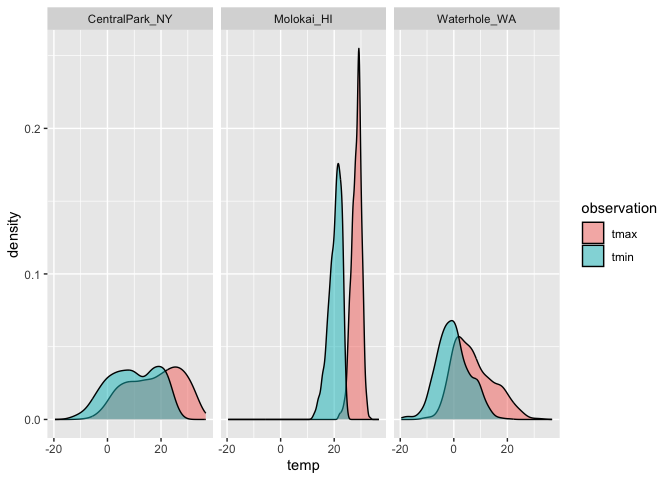
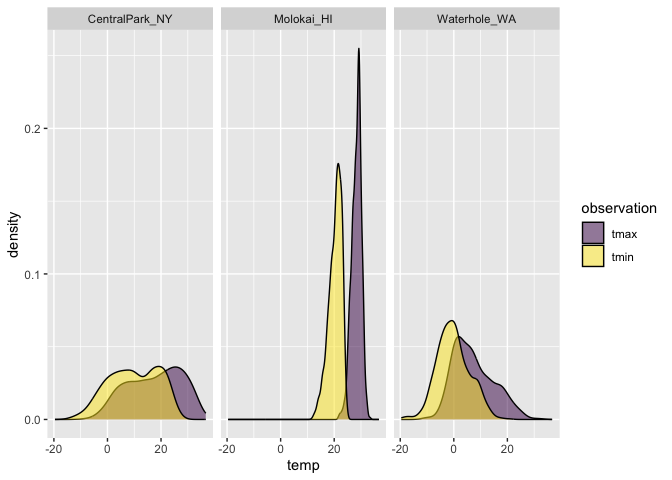
data manipulation & advance ggplot

diff --git a/visualization_part_2.md b/visualization_part_2.md
@@ -371,6 +371,7 @@ what if i wanted densities for tmin and tmax simultaneously?
 
 ``` r
 weather_df |>
+  select(name, tmax, tmin) |> 
   pivot_longer(
     tmax:tmin,
     names_to = "observation", 
@@ -378,9 +379,90 @@ weather_df |>
   ) %>% 
   ggplot(aes(x = temp, fill = observation)) +
   geom_density(alpha = .5) +
-  facet_grid(. ~ name)
+  facet_grid(~ name) + 
+  viridis::scale_fill_viridis(discrete = TRUE)
 ```
 
     ## Warning: Removed 34 rows containing non-finite values (`stat_density()`).
 
 ![](visualization_part_2_files/figure-gfm/unnamed-chunk-16-1.png)<!-- -->
+
+## revisit the pulse
+
+``` r
+pulse_data = 
+  haven::read_sas("./data/public_pulse_data.sas7bdat") %>% 
+  janitor::clean_names() %>% 
+  pivot_longer(
+    bdi_score_bl:bdi_score_12m,
+    names_to = "visit",
+    names_prefix = "bdi_score_",
+    values_to = "bdi") %>% 
+  select(id, visit, everything()) %>% 
+  mutate(
+    visit = recode(visit, "bl" = "00m"), 
+    visit = factor(visit, levels = str_c(c("00", "01", "06", "12"), "m"))) %>% 
+  arrange(id, visit)
+
+ggplot(pulse_data, aes(x = visit, y = bdi)) + 
+  geom_point()
+```
+
+    ## Warning: Removed 879 rows containing missing values (`geom_point()`).
+
+![](visualization_part_2_files/figure-gfm/unnamed-chunk-17-1.png)<!-- -->
+
+## revisiting pups dataset
+
+data from the FAS study
+
+``` r
+pups_df = 
+  read_csv("/Users/nhunguyen/Desktop/P8150/data_wrangling/data/FAS_pups.csv") %>% 
+  janitor::clean_names() %>% 
+  mutate(sex = recode(sex, `1` = "male", `2` = "female"))
+```
+
+    ## Rows: 313 Columns: 6
+    ## ── Column specification ────────────────────────────────────────────────────────
+    ## Delimiter: ","
+    ## chr (1): Litter Number
+    ## dbl (5): Sex, PD ears, PD eyes, PD pivot, PD walk
+    ## 
+    ## ℹ Use `spec()` to retrieve the full column specification for this data.
+    ## ℹ Specify the column types or set `show_col_types = FALSE` to quiet this message.
+
+``` r
+litters_df = 
+  read_csv("/Users/nhunguyen/Desktop/P8150/data_wrangling/data/FAS_litters.csv") %>% 
+  janitor::clean_names() %>% 
+  separate(group, into = c("dose", "day_of_tx"), sep = 3)
+```
+
+    ## Rows: 49 Columns: 8
+    ## ── Column specification ────────────────────────────────────────────────────────
+    ## Delimiter: ","
+    ## chr (2): Group, Litter Number
+    ## dbl (6): GD0 weight, GD18 weight, GD of Birth, Pups born alive, Pups dead @ ...
+    ## 
+    ## ℹ Use `spec()` to retrieve the full column specification for this data.
+    ## ℹ Specify the column types or set `show_col_types = FALSE` to quiet this message.
+
+``` r
+fas_df = left_join(pups_df, litters_df, by = "litter_number")
+
+fas_df %>% 
+  select(dose, day_of_tx, starts_with("pd_")) %>% 
+  pivot_longer(
+    pd_ears:pd_walk,
+    names_to = "outcome",
+    values_to = "pn_day"
+  ) %>% 
+  drop_na() %>% 
+  mutate(outcome = forcats::fct_reorder(outcome, pn_day, median)) %>% 
+  ggplot(aes(x = dose, y = pn_day)) + 
+  geom_violin() +
+  facet_grid(day_of_tx ~ outcome)
+```
+
+![](visualization_part_2_files/figure-gfm/unnamed-chunk-18-1.png)<!-- -->
